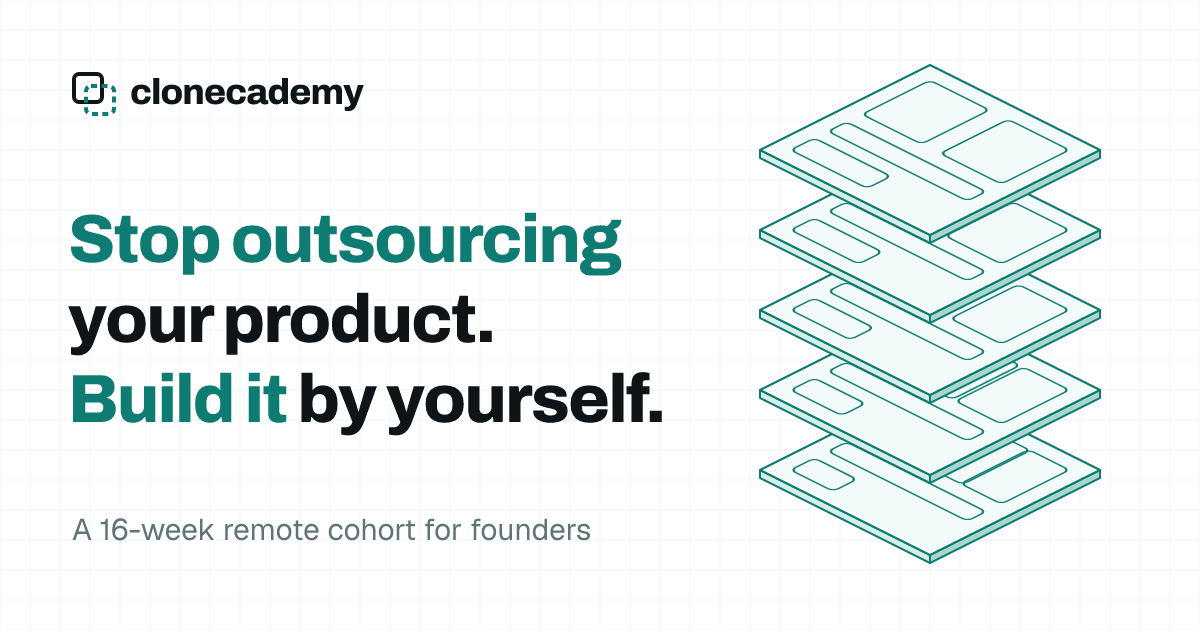
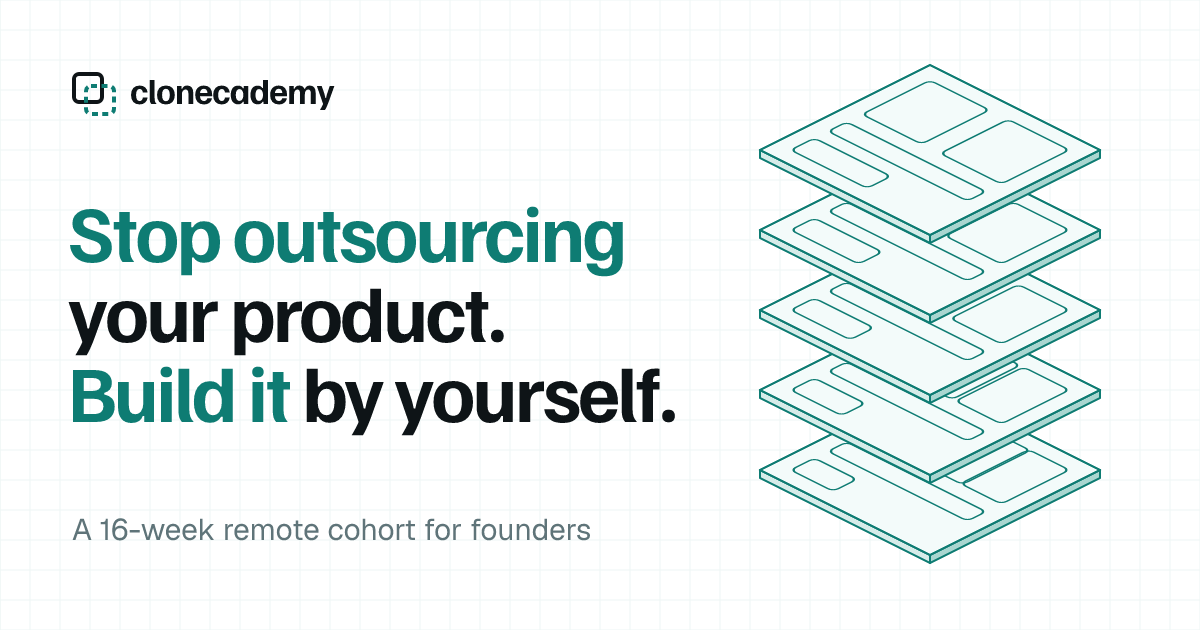
style: set display type in Familjen Grotesk, closer to the original grotesque

Changed region(s): [[0.0617, 0.4524, 0.5858, 0.6937], [0.0617, 0.3317, 0.5242, 0.4524], [0.1233, 0.1206, 0.3083, 0.181]]

diff --git a/src/styles/app.css b/src/styles/app.css
@@ -5,7 +5,7 @@
 
 @theme inline {
 	--font-sans: var(--font-geist);
-	--font-heading: var(--font-archivo);
+	--font-heading: var(--font-familjen);
 	--font-mono: var(--font-geist-mono);
 	--color-ink: var(--ink);
 	--color-ink-soft: var(--ink-soft);
@@ -169,12 +169,11 @@
 			linear-gradient(90deg, var(--grid) 1px, transparent 1px);
 		background-size: 24px 24px;
 	}
-	/* Display type: Archivo set expanded and heavy, like a title block. */
+	/* Display type: Familjen Grotesk, bold and tightly tracked. */
 	.display {
 		font-family: var(--font-heading);
-		font-variation-settings: "wdth" 112;
-		font-weight: 800;
-		letter-spacing: -0.03em;
+		font-weight: 700;
+		letter-spacing: -0.035em;
 		line-height: 0.95;
 	}
 }
